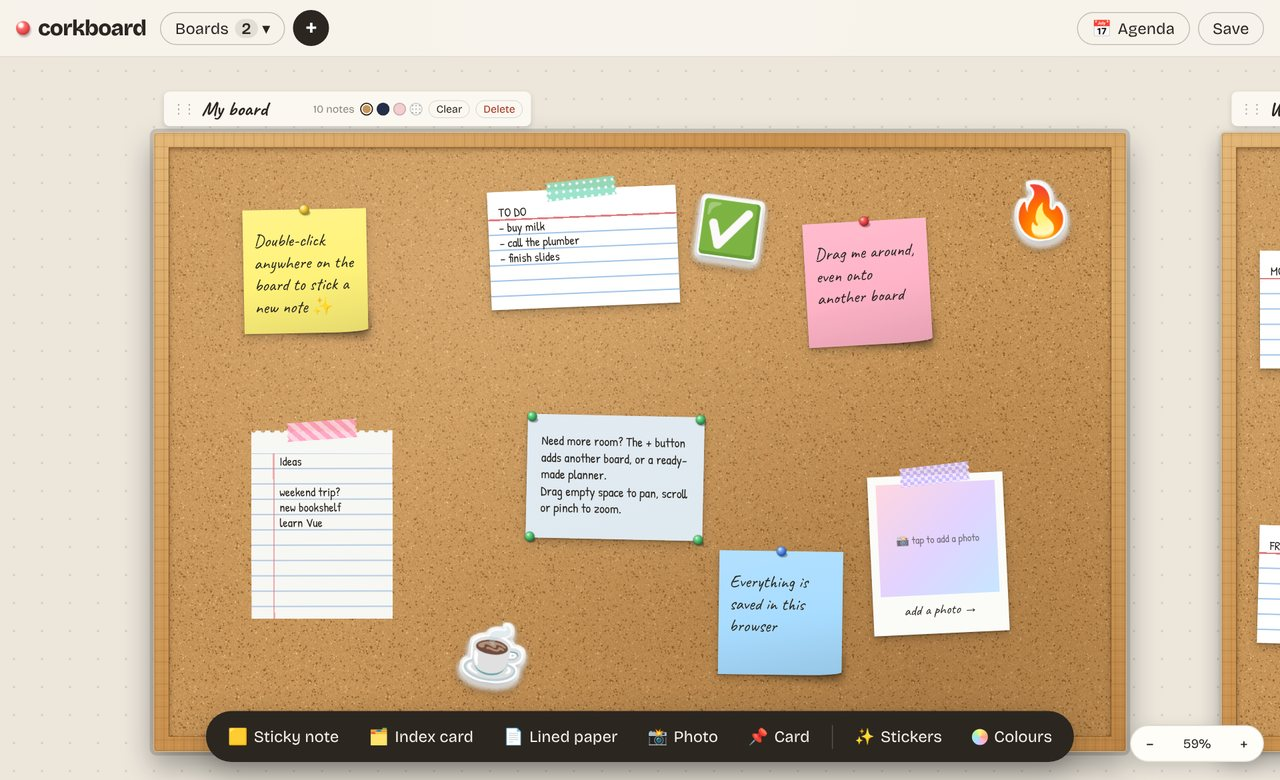
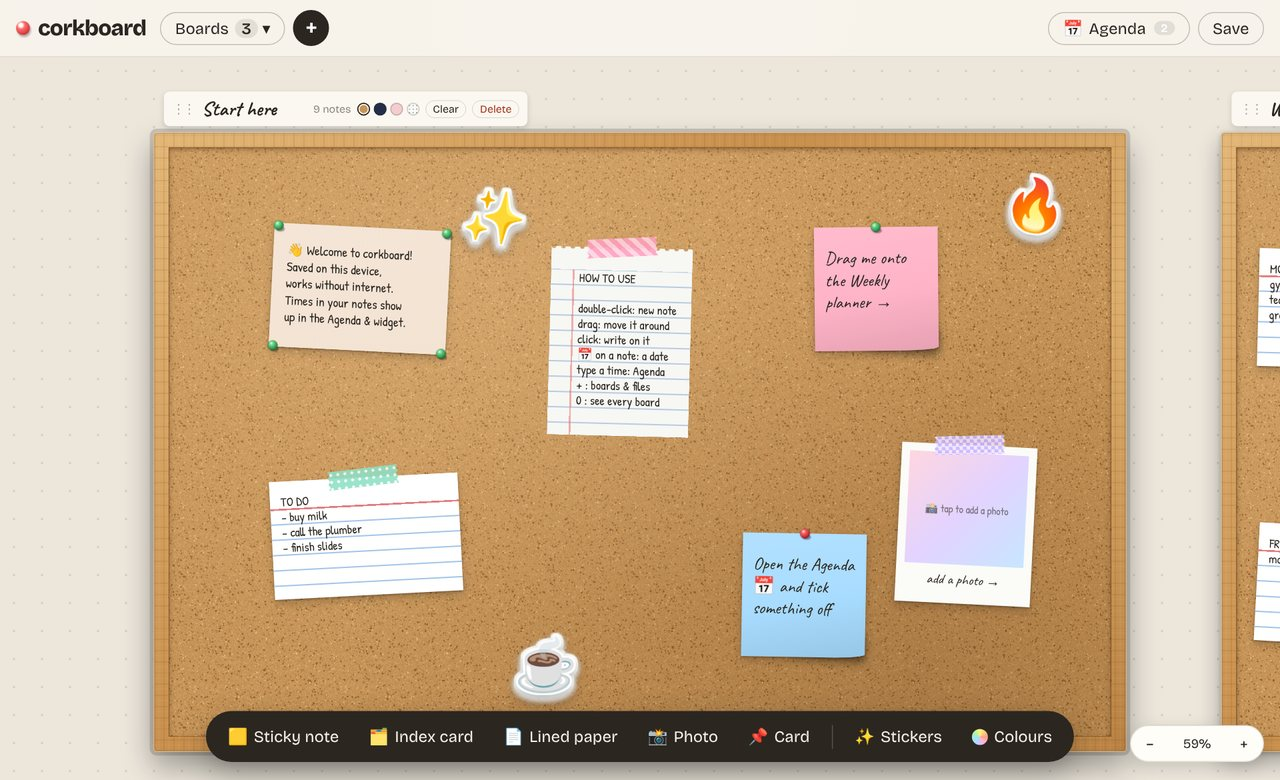
docs: first open and how to use in README, new screenshots, v1.10 in roadmap

diff --git a/README.md b/README.md
@@ -97,6 +97,12 @@ New boards come blank or from a template:
 
 ## How to use it
 
+The first time you open corkboard you see all its boards: **Start here** (what corkboard is, and a *How to use* note),
+a **Weekly planner** already filled in (its times are in the Agenda and the widget straight away, so you can see how it
+works) and a **Kanban**. Change them, or delete them with the board's *Delete* button.
+
+![First open: Start here, a filled-in Weekly planner and a Kanban](docs/boards.jpg)
+
 | | |
 |---|---|
 | Add a note | double-click the board, or use the dock at the bottom |
@@ -105,7 +111,9 @@ New boards come blank or from a template:
 | Pan / zoom | drag empty space · scroll wheel or pinch · `+` `−` · `0` shows everything |
 | Change a note | select it: colour, tape/pin, duplicate, remove |
 | Undo | the toast's **Undo**, or `Ctrl/⌘ + Z` (notes, cleared boards and deleted boards) |
+| Plan with times | write the time next to the thing: `gym 18.00`, under a `MONDAY` heading or with a day (`fri 3pm`); it's in the Agenda and the widget, and rings at the time |
 | Dates | select a note → 📅: pick a day and time, a reminder (at time, 10 min, 1 h, 1 day before); tap the chip to tick it done |
+| Tick things off | the checkbox in the Agenda or the circle on the widget: the line gets crossed out |
 | Keys | `N` new sticky · `B` new board · `A` agenda · `Delete` remove · `Esc` deselect |
 | Keep / share | **Save** downloads the current board as a PNG · the **+** menu has New board, Import and Export (below) |
 
@@ -130,8 +138,6 @@ New boards come blank or from a template:
   a mini board) and a style (Cork, Paper, Dark), with a live preview. Get it on your desktop with the
   [Windows app](#windows-app-the-desktop-widget), or *Open widget* in a small browser window.
 - **Widget mode** (`#widget`): the same widget in the current window, handy from the home-screen shortcut on a phone.
-- **Wallpaper pictures** (in the **+** menu): *Desktop wallpaper* (2560×1440) and *Phone wallpaper* (1170×2532, with the top
-  third left clear for the lock-screen clock), so the whole board fits instead of being cropped.
 
 ## Import & export
 
@@ -159,7 +165,7 @@ plus every note as searchable text) · plain text · Markdown (for Notion/Obsidi
 ```bash
 npm install
 npm run dev       # http://localhost:5173
-npm test          # 93 tests
+npm test          # 94 tests
 npm run build     # static site in dist/ (relative paths, host it anywhere)
 ```
 
@@ -196,7 +202,6 @@ src/
 │   ├── sync.ts           autosave + keeping several corkboard windows in step (BroadcastChannel)
 │   ├── install.ts        device/browser detection and install steps
 │   ├── notify.ts         system notifications (through the service worker when installed)
-│   ├── wallpaper.ts      desktop and phone wallpaper layouts
 │   ├── texture.ts        cork, felt, linen and dot-grid surfaces painted on a canvas
 │   └── storage.ts        IndexedDB persistence
 ├── stores/workspace.ts   Pinia: boards, notes, cross-board drops, undo

diff --git a/ROADMAP.md b/ROADMAP.md
@@ -17,6 +17,7 @@
 - [ ] Keyboard moving of notes (arrow keys) and richer screen-reader labels.
 
 ## Done
+- [x] v1.10: first open shows every board, with a Start here / How to use board and a filled-in Weekly planner; agenda shows every item of a day; wallpaper pictures removed
 - [x] v1.9: agenda as a box per day with boxed times and your own note under each item, Add to my calendar (.ics); widget shows today's notes with ‹ › for other days; README: direct Windows download, runs offline
 - [x] v1.8: times written in notes go on the agenda (by day and time), ticking crosses them out; widget any size (from one sticky note), Notes-only style, notes straight on the widget, Show the widget top right
 - [x] v1.7: desktop widget redesign (calendar page, today sticky with ticks, coming-up card, Cork/Paper/Dark); Windows app with the widget, tray and start with Windows; windows stay in step; tap a polaroid's picture to add a photo
